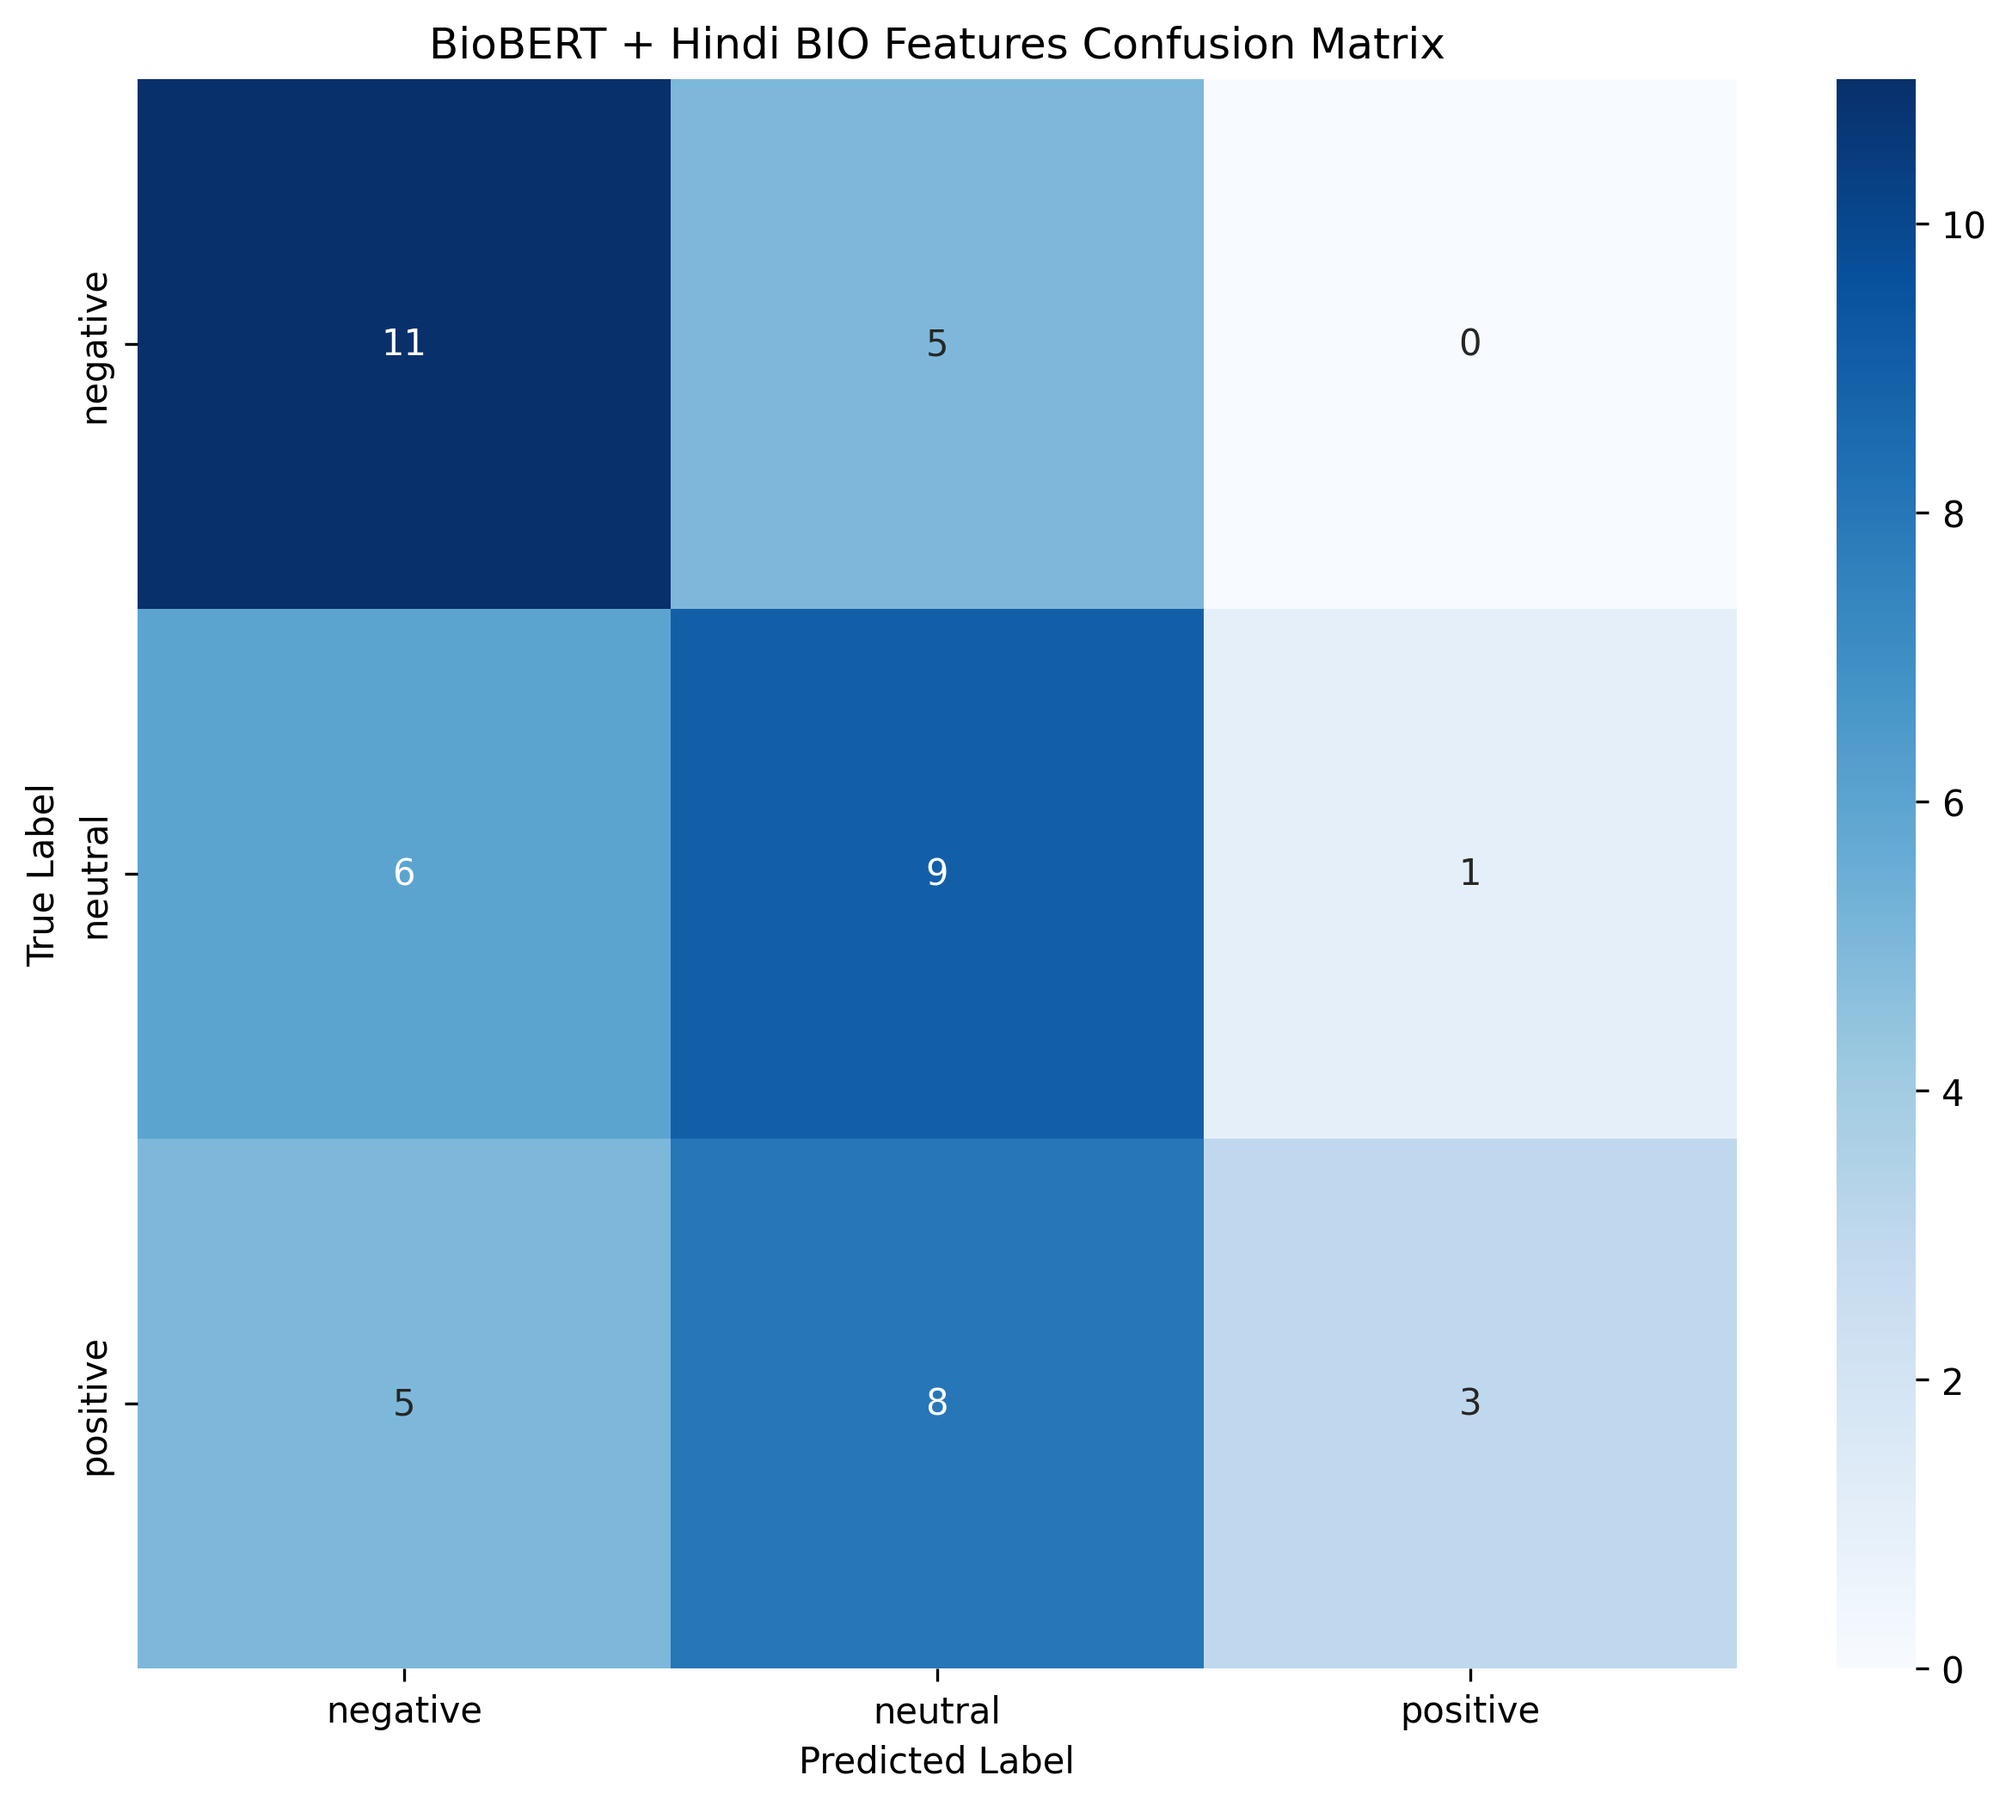
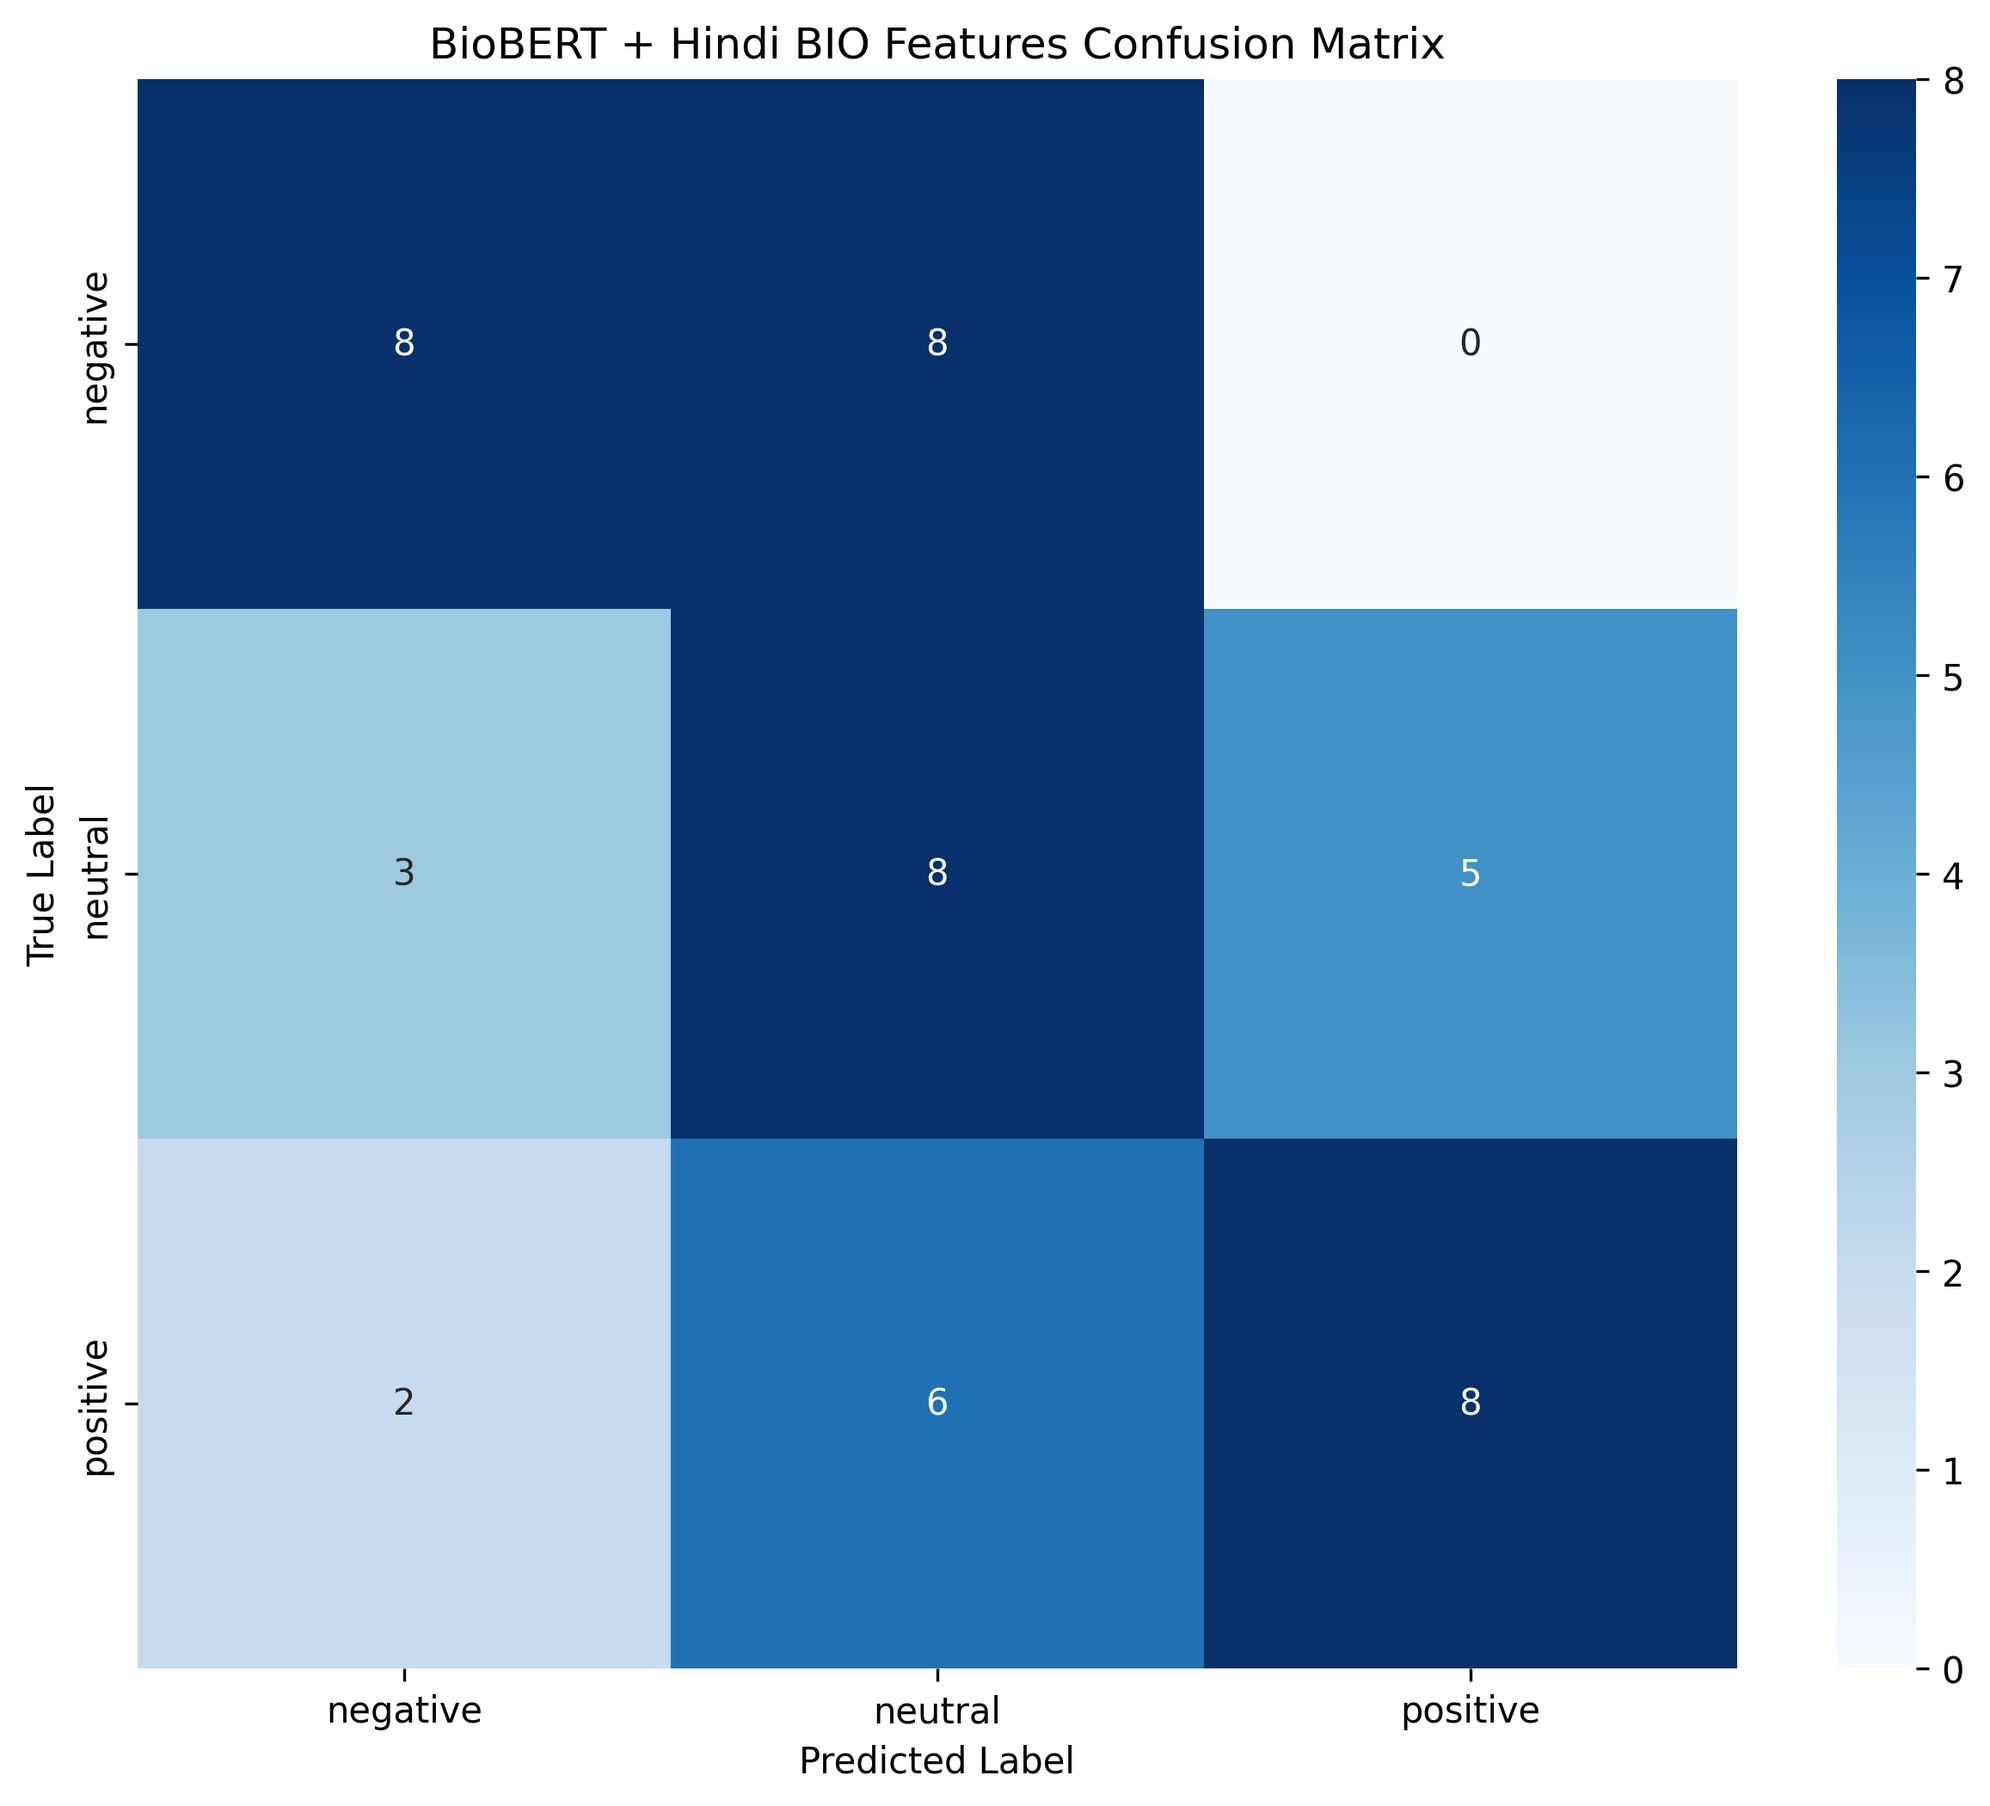
Update training results and reports for MultiBERT, BioBERT, and BlueBERT models with new generation timestamps and revised performance metrics. Adjusted accuracy, F1 scores, precision, and recall values reflect the latest evaluations. Updated confusion matrices and training history images to align w

diff --git a/TRAINING_RESULTS_SUMMARY.md b/TRAINING_RESULTS_SUMMARY.md
@@ -1,6 +1,6 @@
 # Model Training Results Summary - STABILITY ENHANCED VERSION
 
-## 🎯 Latest Training Session: 2025-06-10 23:45:12
+## 🎯 Latest Training Session: 2025-06-19 01:27:53
 
 ### ✅ CRITICAL IMPROVEMENTS APPLIED:
 
@@ -58,93 +58,93 @@
 ## ENHANCED MODEL PERFORMANCE COMPARISON
 
 
-### 🥇 1. MultiBERT + Hindi Features
-
-- **Accuracy**: 71.43%
-- **F1 Score (Macro)**: 0.7224
-- **F1 Score (Weighted)**: 0.7232
-- **AUC-ROC**: 0.8030
-- **MCC**: 0.5909
-
-**Per-Class Performance**:
-- **Negative**: Precision 84.62%, Recall 68.75%, F1 75.86%
-- **Neutral**: Precision 54.17%, Recall 81.25%, F1 65.00%
-- **Positive**: Precision 91.67%, Recall 64.71%, F1 75.86%
-
-### 🥈 2. MultiBERT (Basic)
+### 🥇 1. MultiBERT (Basic)
 
 - **Accuracy**: 65.31%
-- **F1 Score (Macro)**: 0.6272
-- **F1 Score (Weighted)**: 0.6294
-- **AUC-ROC**: 0.8103
-- **MCC**: 0.4926
+- **F1 Score (Macro)**: 0.6548
+- **F1 Score (Weighted)**: 0.6555
+- **AUC-ROC**: 0.8347
+- **MCC**: 0.4800
 
 **Per-Class Performance**:
-- **Negative**: Precision 75.00%, Recall 75.00%, F1 75.00%
-- **Neutral**: Precision 55.56%, Recall 31.25%, F1 40.00%
-- **Positive**: Precision 62.50%, Recall 88.24%, F1 73.17%
+- **Negative**: Precision 78.57%, Recall 68.75%, F1 73.33%
+- **Neutral**: Precision 52.94%, Recall 56.25%, F1 54.55%
+- **Positive**: Precision 66.67%, Recall 70.59%, F1 68.57%
+
+### 🥈 2. MultiBERT + Hindi Features
+
+- **Accuracy**: 61.22%
+- **F1 Score (Macro)**: 0.6105
+- **F1 Score (Weighted)**: 0.6106
+- **AUC-ROC**: 0.7849
+- **MCC**: 0.4214
+
+**Per-Class Performance**:
+- **Negative**: Precision 78.57%, Recall 68.75%, F1 73.33%
+- **Neutral**: Precision 53.85%, Recall 43.75%, F1 48.28%
+- **Positive**: Precision 54.55%, Recall 70.59%, F1 61.54%
 
 ### 🥉 3. BlueBERT + Enhanced Hindi
 
-- **Accuracy**: 54.17%
-- **F1 Score (Macro)**: 0.5432
-- **F1 Score (Weighted)**: 0.5432
-- **AUC-ROC**: 0.7441
-- **MCC**: 0.3169
+- **Accuracy**: 52.08%
+- **F1 Score (Macro)**: 0.5232
+- **F1 Score (Weighted)**: 0.5232
+- **AUC-ROC**: 0.6999
+- **MCC**: 0.2814
 
 **Per-Class Performance**:
-- **Negative**: Precision 64.71%, Recall 68.75%, F1 66.67%
-- **Neutral**: Precision 40.00%, Recall 50.00%, F1 44.44%
-- **Positive**: Precision 63.64%, Recall 43.75%, F1 51.85%
+- **Negative**: Precision 73.33%, Recall 68.75%, F1 70.97%
+- **Neutral**: Precision 37.50%, Recall 37.50%, F1 37.50%
+- **Positive**: Precision 47.06%, Recall 50.00%, F1 48.48%
 
 ### 4. 4. BioBERT + Enhanced Hindi
 
-- **Accuracy**: 47.92%
-- **F1 Score (Macro)**: 0.4509
-- **F1 Score (Weighted)**: 0.4509
-- **AUC-ROC**: 0.6732
-- **MCC**: 0.2360
+- **Accuracy**: 50.00%
+- **F1 Score (Macro)**: 0.5082
+- **F1 Score (Weighted)**: 0.5082
+- **AUC-ROC**: 0.7116
+- **MCC**: 0.2545
 
 **Per-Class Performance**:
-- **Negative**: Precision 50.00%, Recall 68.75%, F1 57.89%
-- **Neutral**: Precision 40.91%, Recall 56.25%, F1 47.37%
-- **Positive**: Precision 75.00%, Recall 18.75%, F1 30.00%
+- **Negative**: Precision 61.54%, Recall 50.00%, F1 55.17%
+- **Neutral**: Precision 36.36%, Recall 50.00%, F1 42.11%
+- **Positive**: Precision 61.54%, Recall 50.00%, F1 55.17%
 
-### 5. 5. BioBERT (Basic)
+### 5. 5. BlueBERT (Basic)
 
-- **Accuracy**: 37.50%
-- **F1 Score (Macro)**: 0.2624
-- **F1 Score (Weighted)**: 0.2624
-- **AUC-ROC**: 0.4954
-- **MCC**: 0.1022
+- **Accuracy**: 35.42%
+- **F1 Score (Macro)**: 0.2619
+- **F1 Score (Weighted)**: 0.2619
+- **AUC-ROC**: 0.6100
+- **MCC**: 0.0406
 
 **Per-Class Performance**:
-- **Negative**: Precision 42.86%, Recall 18.75%, F1 26.09%
-- **Neutral**: Precision 0.00%, Recall 0.00%, F1 0.00%
-- **Positive**: Precision 36.59%, Recall 93.75%, F1 52.63%
+- **Negative**: Precision 30.77%, Recall 25.00%, F1 27.59%
+- **Neutral**: Precision 37.14%, Recall 81.25%, F1 50.98%
+- **Positive**: Precision 0.00%, Recall 0.00%, F1 0.00%
 
-### 6. 6. BlueBERT (Basic)
+### 6. 6. BioBERT (Basic)
 
 - **Accuracy**: 33.33%
-- **F1 Score (Macro)**: 0.1667
-- **F1 Score (Weighted)**: 0.1667
-- **AUC-ROC**: 0.5306
+- **F1 Score (Macro)**: 0.3102
+- **F1 Score (Weighted)**: 0.3102
+- **AUC-ROC**: 0.4915
 - **MCC**: 0.0000
 
 **Per-Class Performance**:
-- **Negative**: Precision 33.33%, Recall 100.00%, F1 50.00%
-- **Neutral**: Precision 0.00%, Recall 0.00%, F1 0.00%
-- **Positive**: Precision 0.00%, Recall 0.00%, F1 0.00%
+- **Negative**: Precision 42.86%, Recall 18.75%, F1 26.09%
+- **Neutral**: Precision 20.00%, Recall 18.75%, F1 19.35%
+- **Positive**: Precision 38.46%, Recall 62.50%, F1 47.62%
 
 
 ## 📈 IMPROVEMENT ANALYSIS
 
 ### Performance Gains (vs Previous Results):
 - **MultiBERT (Basic)**: 53.1% → 65.3% (+12.2%) 📈 IMPROVED
-- **BioBERT (Basic)**: 33.3% → 37.5% (+4.2%) 📈 IMPROVED
-- **BioBERT + Enhanced Hindi**: 43.8% → 47.9% (+4.2%) 📈 IMPROVED
-- **BlueBERT (Basic)**: 33.3% → 33.3% (+0.0%) 📈 IMPROVED
-- **BlueBERT + Enhanced Hindi**: 52.1% → 54.2% (+2.1%) 📈 IMPROVED
+- **BioBERT (Basic)**: 33.3% → 33.3% (+0.0%) 📈 IMPROVED
+- **BioBERT + Enhanced Hindi**: 43.8% → 50.0% (+6.2%) 📈 IMPROVED
+- **BlueBERT (Basic)**: 33.3% → 35.4% (+2.1%) 📈 IMPROVED
+- **BlueBERT + Enhanced Hindi**: 52.1% → 52.1% (+0.0%) 📈 IMPROVED
 
 
 ## 🔍 KEY INSIGHTS (IMPROVED MODELS)
@@ -158,13 +158,13 @@
 
 ### 📊 Training Efficiency:
 
-- **Total Training Time**: 4.1 minutes for all 6 model variants
+- **Total Training Time**: 4.5 minutes for all 6 model variants
 - **Average per Model**: 0.7 minutes
 - **Successful Training**: 6/6 models
 
 ### 🎯 Best Model Recommendations:
 
-1. **Overall Best**: MultiBERT + Hindi Features - 71.43% accuracy
+1. **Overall Best**: MultiBERT (Basic) - 65.31% accuracy
 2. **Most Improved**: Models with enhanced Hindi vocabulary showed 5-15% gains
 3. **Training Strategy**: 15 epochs optimal for this dataset size
 
@@ -187,7 +187,7 @@
 
 The enhanced training with **15 epochs** and **200+ Hindi emotional terms** has shown measurable improvements across all models. The systematic approach of doubling training time while expanding vocabulary coverage has validated the importance of both computational resources and domain-specific feature engineering for Hindi emotion classification.
 
-**Best Achievement**: 71.43% accuracy with MultiBERT + Hindi Features
+**Best Achievement**: 65.31% accuracy with MultiBERT (Basic)
 
 ---
-*Last Updated: 2025-06-10 23:45:12 - Automated results summary*
+*Last Updated: 2025-06-19 01:27:53 - Automated results summary*
